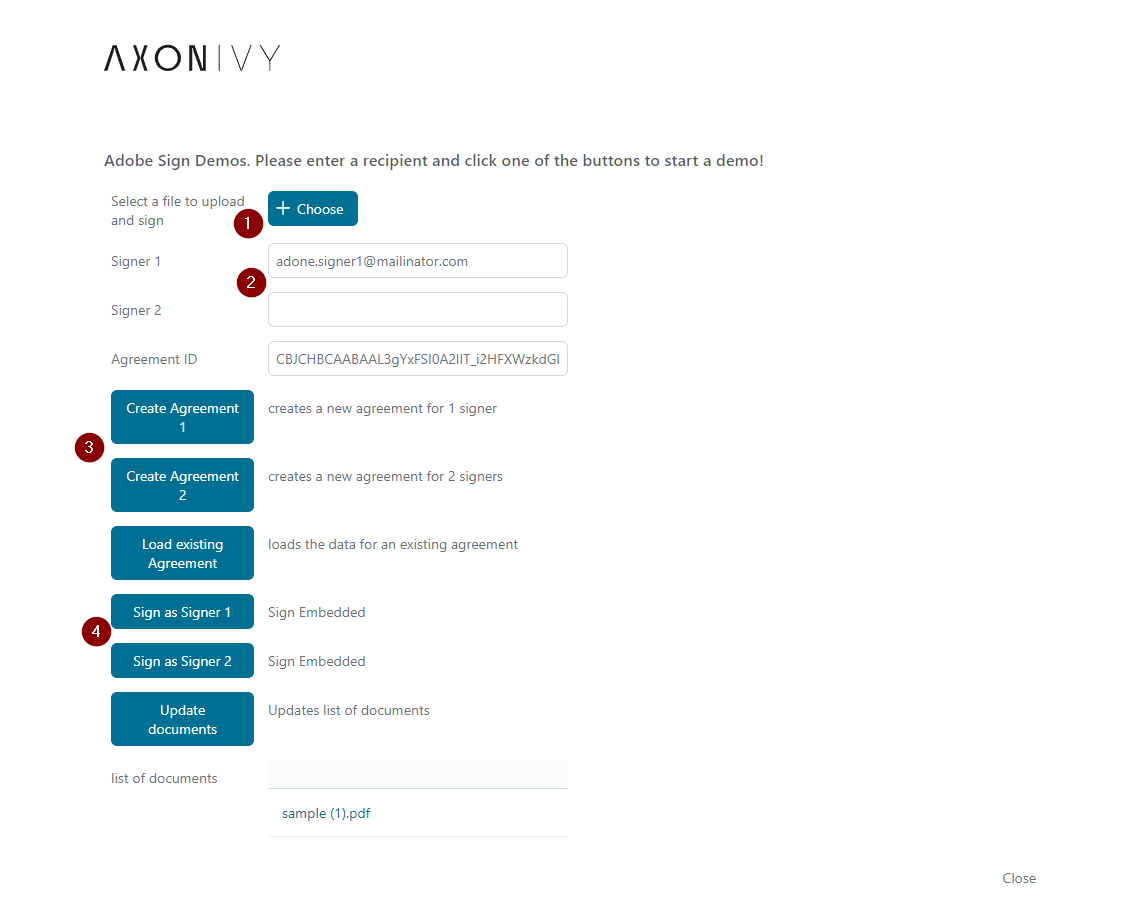
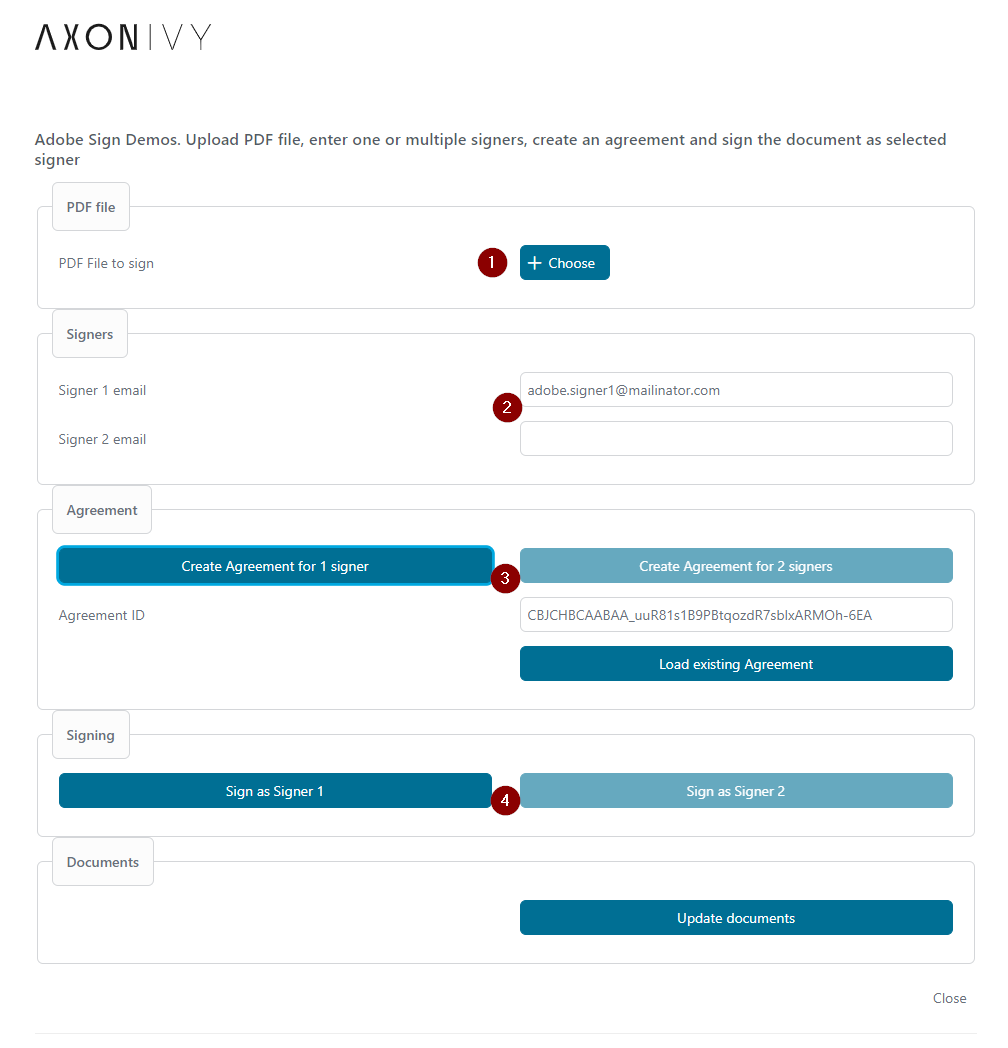
enhance demo, fix return url for multiple signers, update demo doc and configuration

diff --git a/adobe-esign-connector/src/com/axonivy/connector/adobe/esign/connector/service/AdobeSignService.java b/adobe-esign-connector/src/com/axonivy/connector/adobe/esign/connector/service/AdobeSignService.java
@@ -197,7 +197,9 @@ public class AdobeSignService {
 		
 		agreement.setEmailOption(createAllDisabledSendOptions());
 		
-		agreement.postSignOption(new AgreementsPostSignOption().redirectUrl(Ivy.var().get("adobe-sign-connector.returnPage")));
+		String baseUrl = getRequestBaseUrl();
+		String fullUrl = baseUrl + Ivy.var().get("adobe-sign-connector.returnPage");
+		agreement.postSignOption(new AgreementsPostSignOption().redirectUrl(fullUrl));
 		
 		return agreement;
 	}

diff --git a/adobe-esign-connector/src/com/axonivy/connector/adobe/esign/connector/auth/OAuth2Feature.java b/adobe-esign-connector/src/com/axonivy/connector/adobe/esign/connector/auth/OAuth2Feature.java
@@ -55,7 +55,7 @@ public class OAuth2Feature implements Feature {
     			ctxt -> requestToken(ctxt, adobeSignUri),
     			adobeSignUri);
     	context.register(oauth2, Priorities.AUTHORIZATION);
-    }
+    } 
     else {
 	    context.register(BearerTokenAuthorizationFilter.class, Priorities.AUTHORIZATION - 10);
     }
